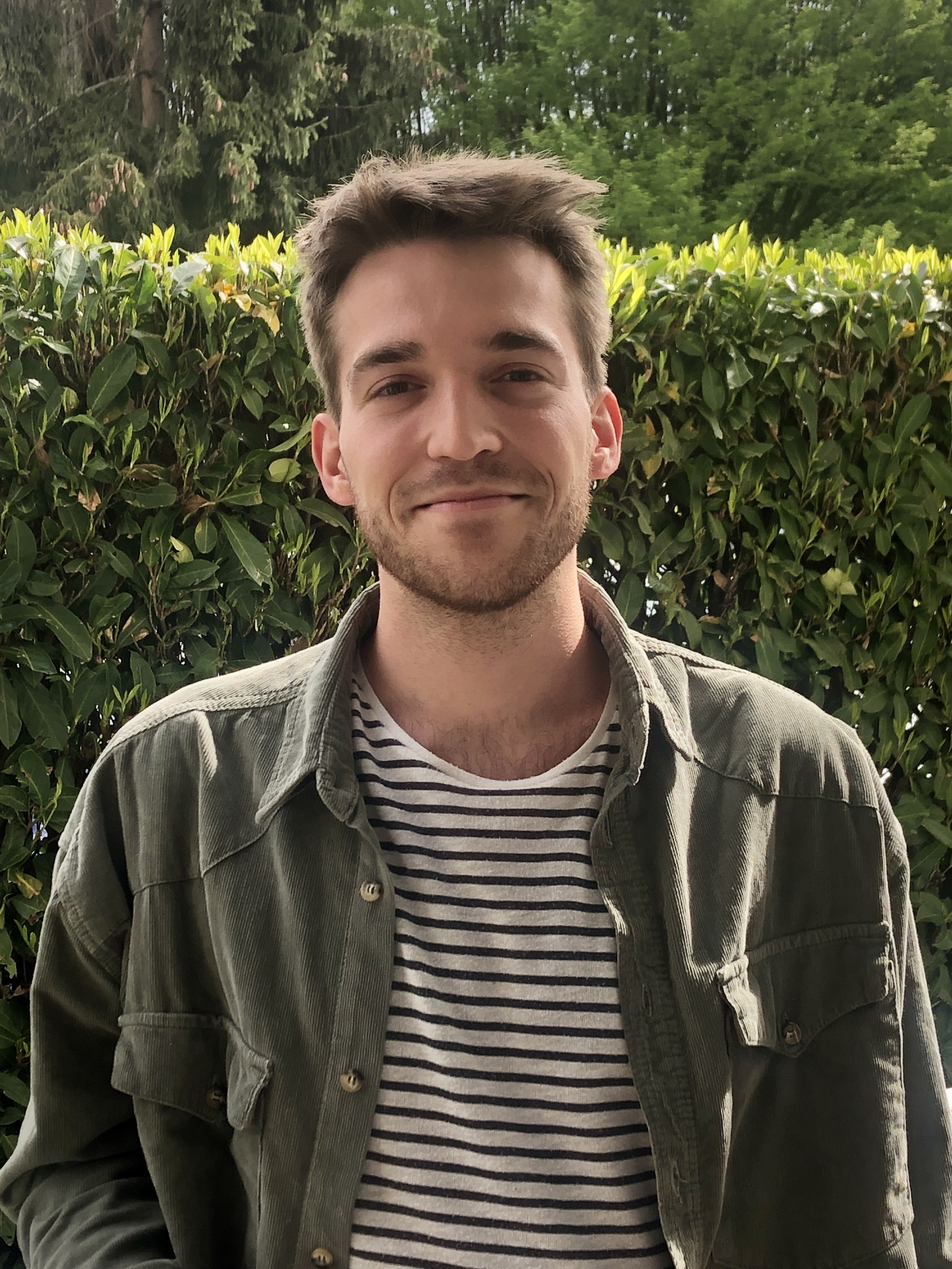
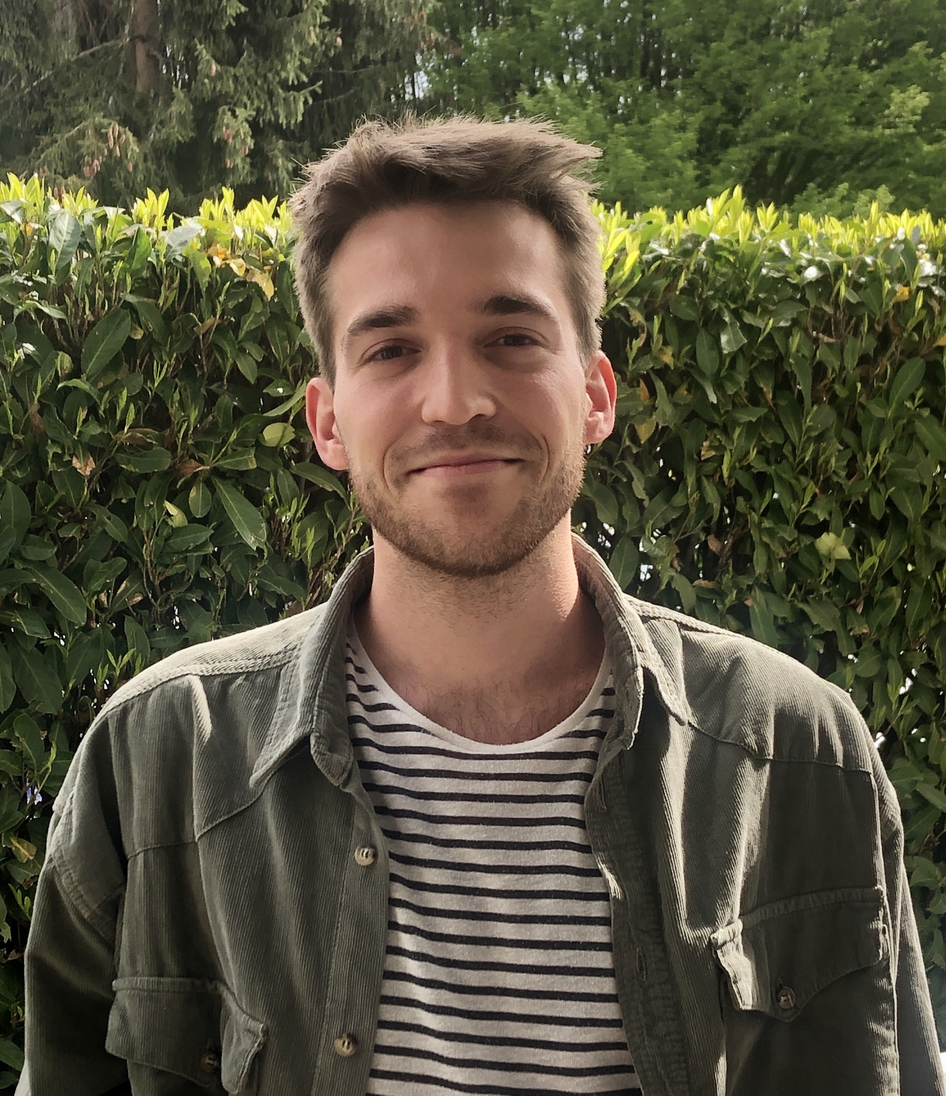
new pic added + brightness

diff --git a/index.html b/index.html
@@ -22,7 +22,7 @@
 		
 	</div>-->
 	
-	<p> <span class="presimage">  <img src="images/luca.jpg" alt="" width="200" height="200"> </span> <h1> Luca Ganassali </h1> </p> 
+	<p> <span class="presimage">  <img src="images/luca.jpeg" alt="" width="300" height="348"> </span> <h1> Luca Ganassali </h1> </p> 
 	
 
 <!-- HOME -->

diff --git a/css/style.css b/css/style.css
@@ -14,6 +14,7 @@ body{
 img{
 	vertical-align: middle;
 	opacity: 1;
+	filter: brightness(1.2);
 }
 
 .presimage{
